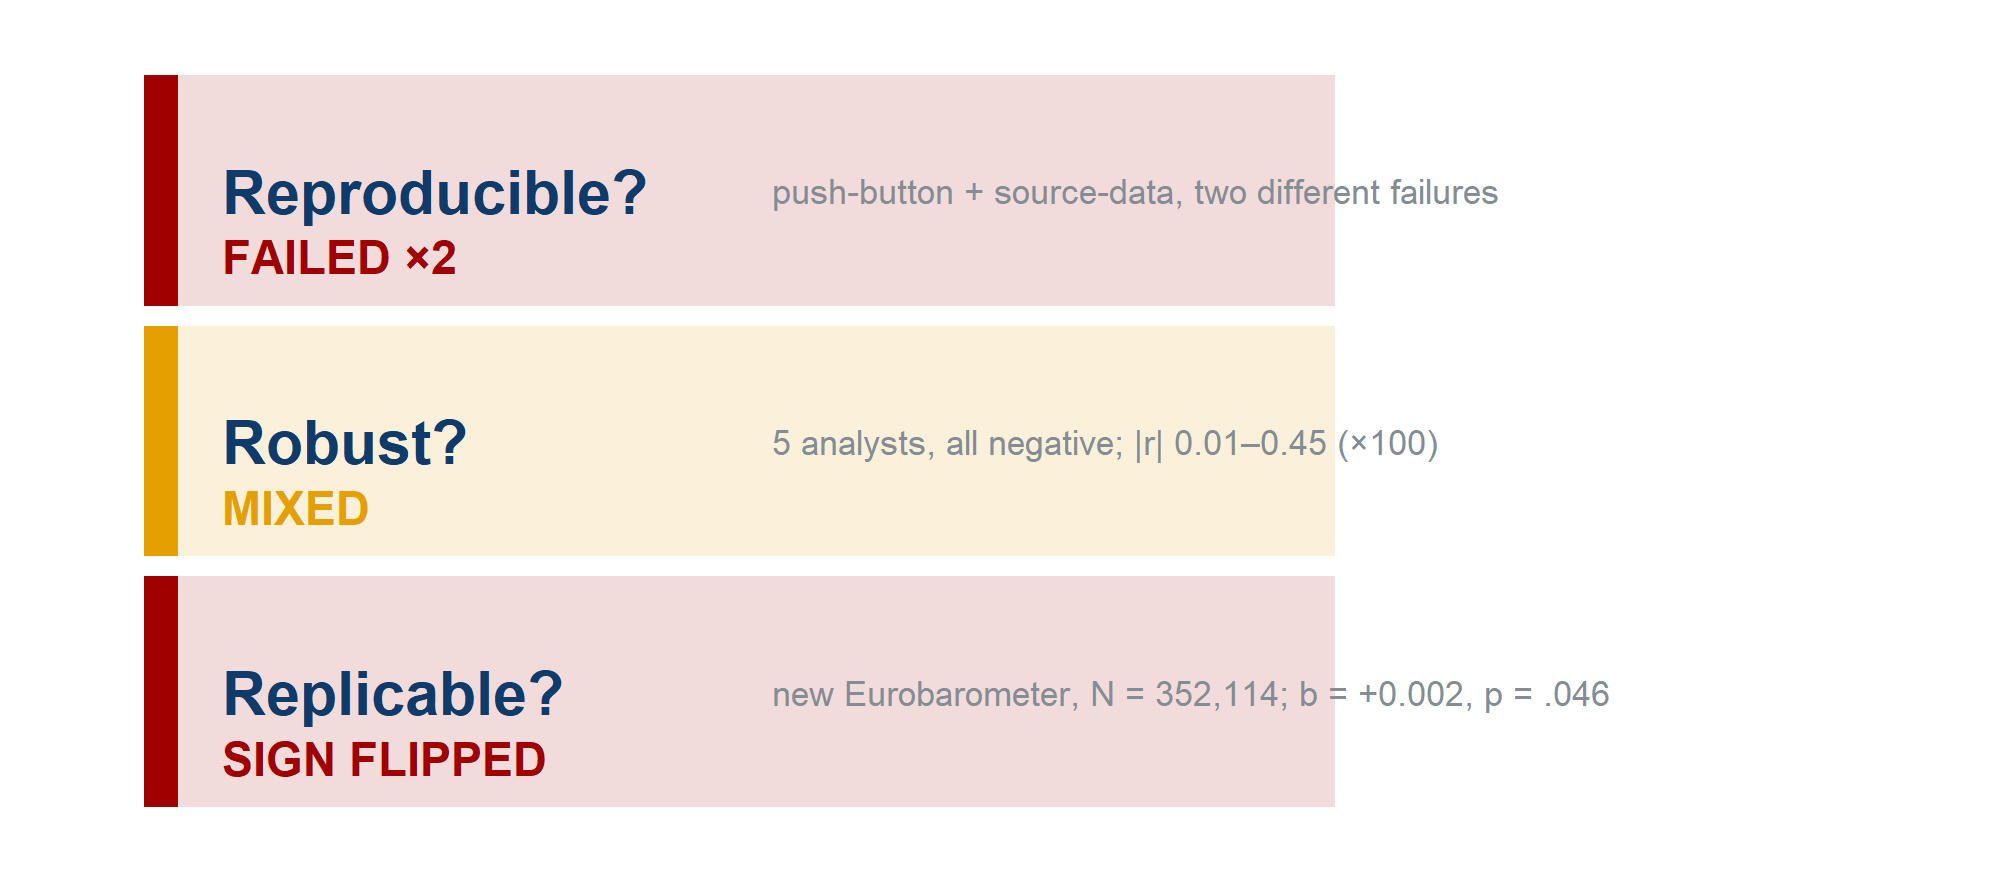
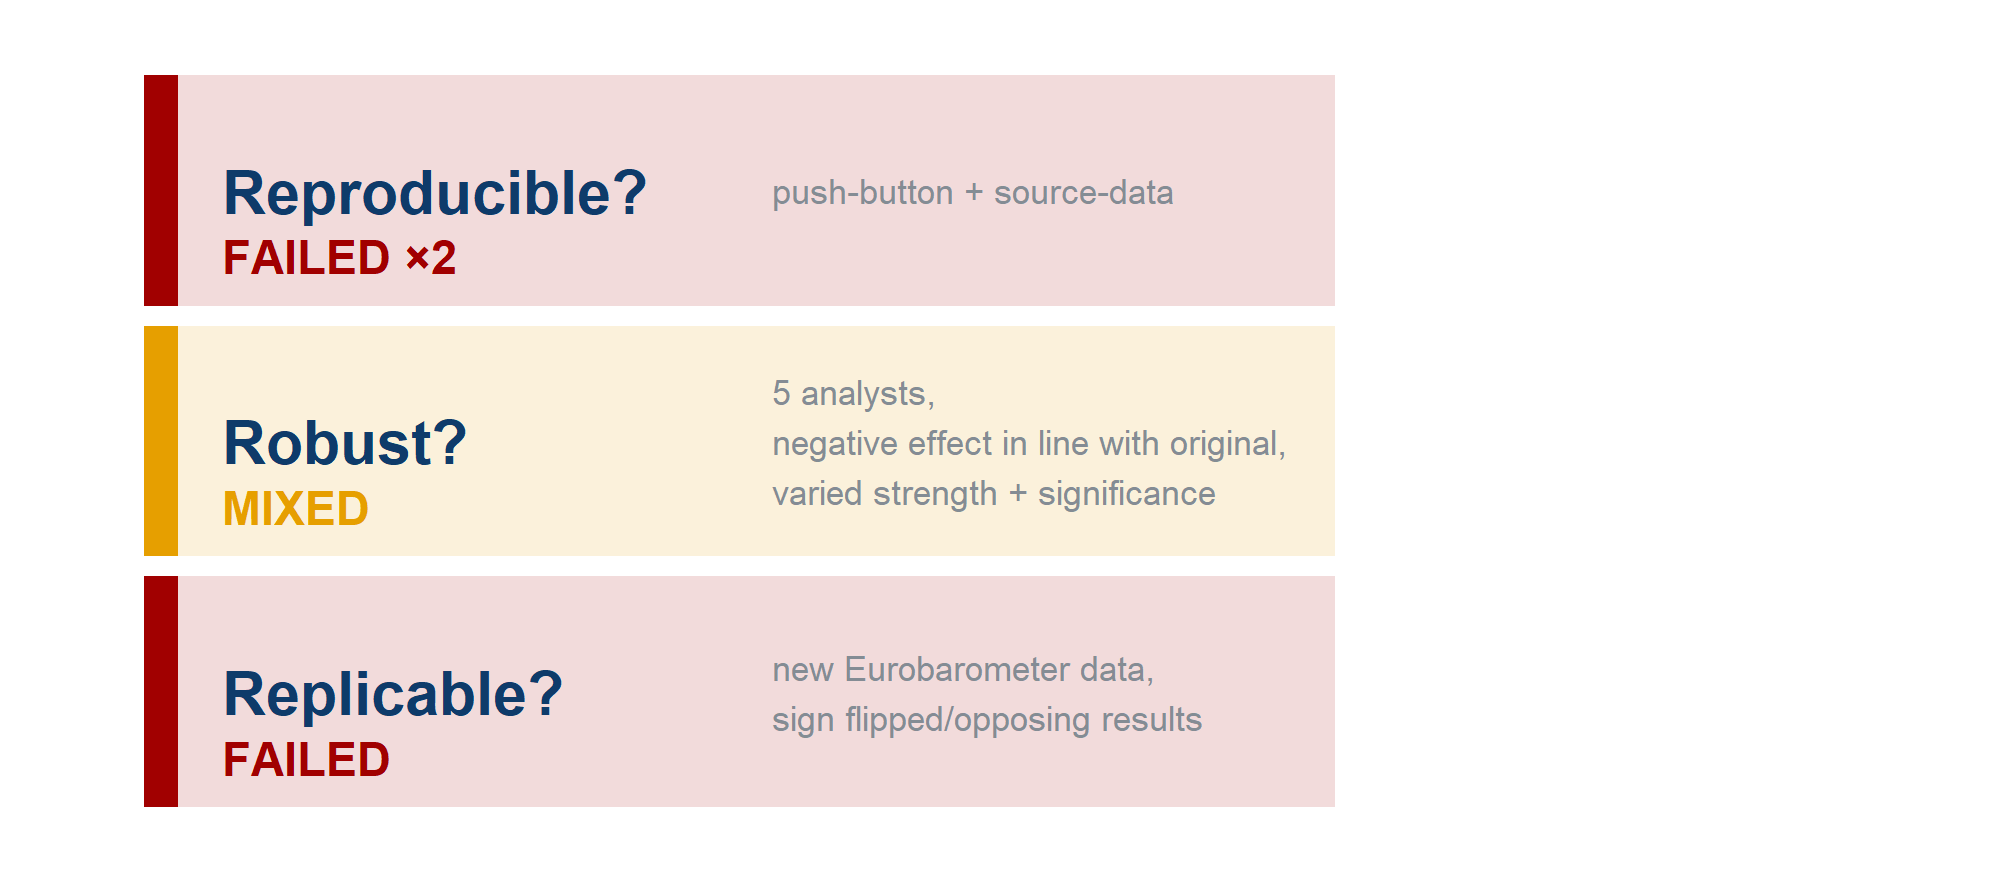
slides updates

diff --git a/style/cgm-slides.scss b/style/cgm-slides.scss
@@ -798,7 +798,7 @@ li.fragment.visible.current-fragment::marker {
 
    2. Quick notch – the self-contained steps below need no inline style:
         ::: {.fs-80}
-      Steps run 95 → 60 (percent of normal). Each also tightens line spacing.
+      Steps run 150 → 50 (percent of normal). Each also tightens line spacing.
 */
 .scaled {
   font-size: calc(var(--fs, 0.9) * 1em);